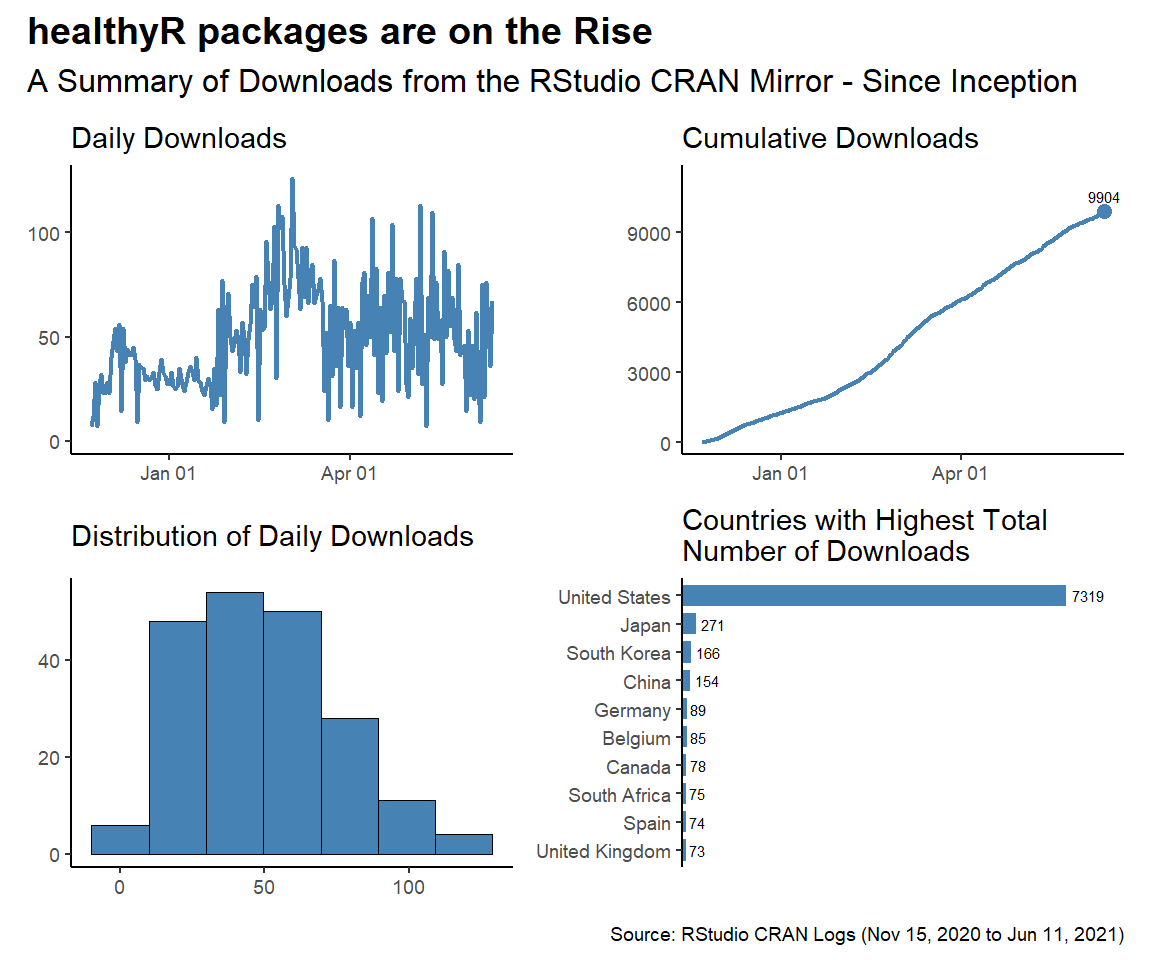
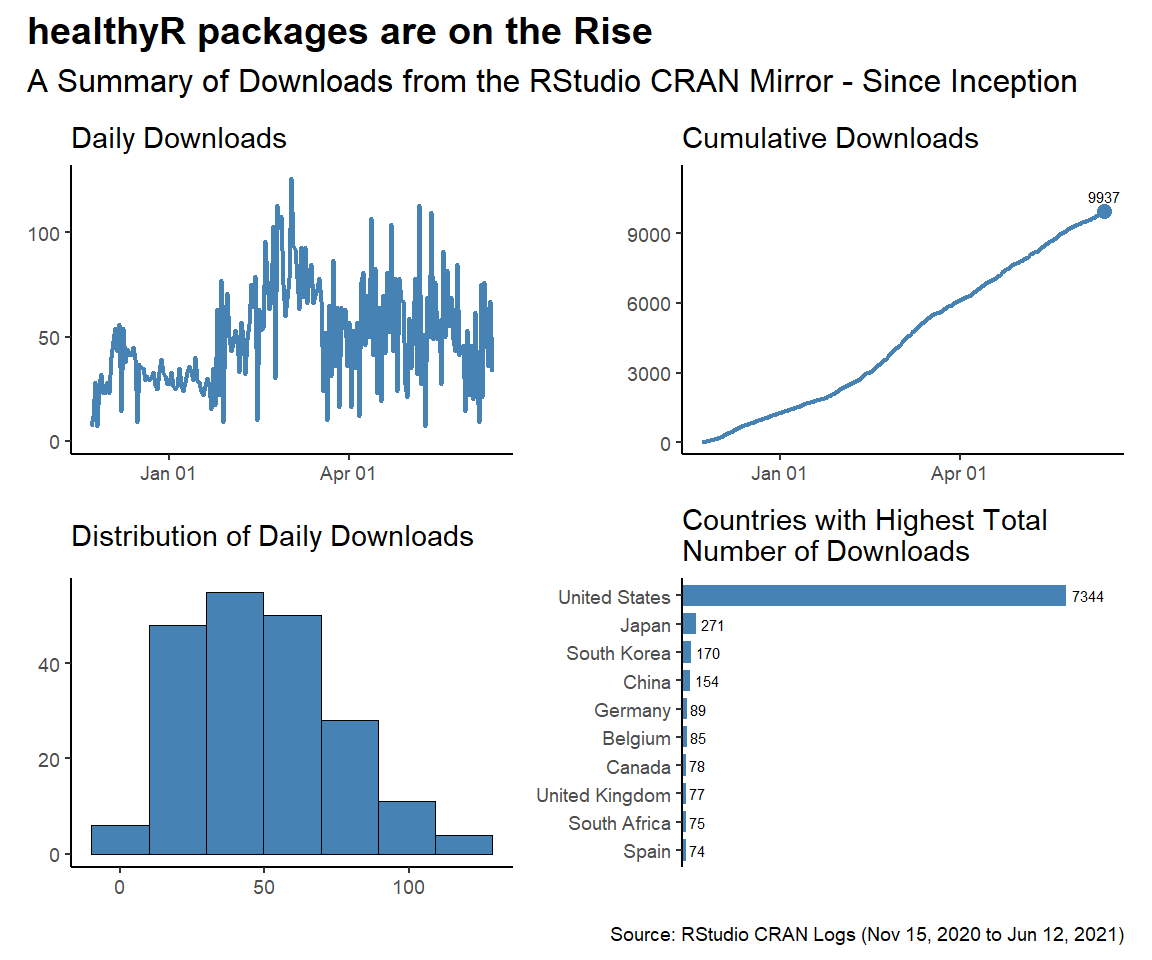
update stats
update stats

diff --git a/README.md b/README.md
@@ -20,7 +20,7 @@ While I analyze `healthyverse` packages here, the functions are written
 in a way that you can analyze any CRAN package with a slight
 modificaiton to the `download_log` function.
 
-This file was last updated on June 13, 2021.
+This file was last updated on June 14, 2021.
 
 # Current Trend
 
@@ -94,8 +94,8 @@ top_n_downloads(total_downloads, 10, r_os) %>%
 
 | OS              | Count |
 |:----------------|------:|
-| NA              |  8533 |
-| mingw32         |   828 |
+| NA              |  8553 |
+| mingw32         |   841 |
 | linux-gnu       |   478 |
 | darwin15.6.0    |    29 |
 | darwin13.4.0    |    19 |
@@ -129,10 +129,10 @@ top_n_downloads(total_downloads, 4, package) %>%
 
 | Package       | Count |
 |:--------------|------:|
-| healthyR.data |  3755 |
-| healthyR      |  2736 |
-| healthyR.ts   |  2000 |
-| healthyverse  |  1413 |
+| healthyR.data |  3763 |
+| healthyR      |  2746 |
+| healthyR.ts   |  2006 |
+| healthyverse  |  1422 |
 
 # Time Series Plot of each package
 
@@ -149,9 +149,9 @@ total_downloads %>%
     , .value       = count
     , .color_var   = package
     , .facet_ncol  = 2
-    , .title       = "Time Series Plot of Daily Downloads by day"
+    , .title       = "Time Series Plot of Daily Downloads"
     , .interactive = interactive
   )
 ```
 
-![](man/figures/README-time_series-1.png)<!-- -->
+![](man/figures/README-time_series-1.png)<!-- --> total
